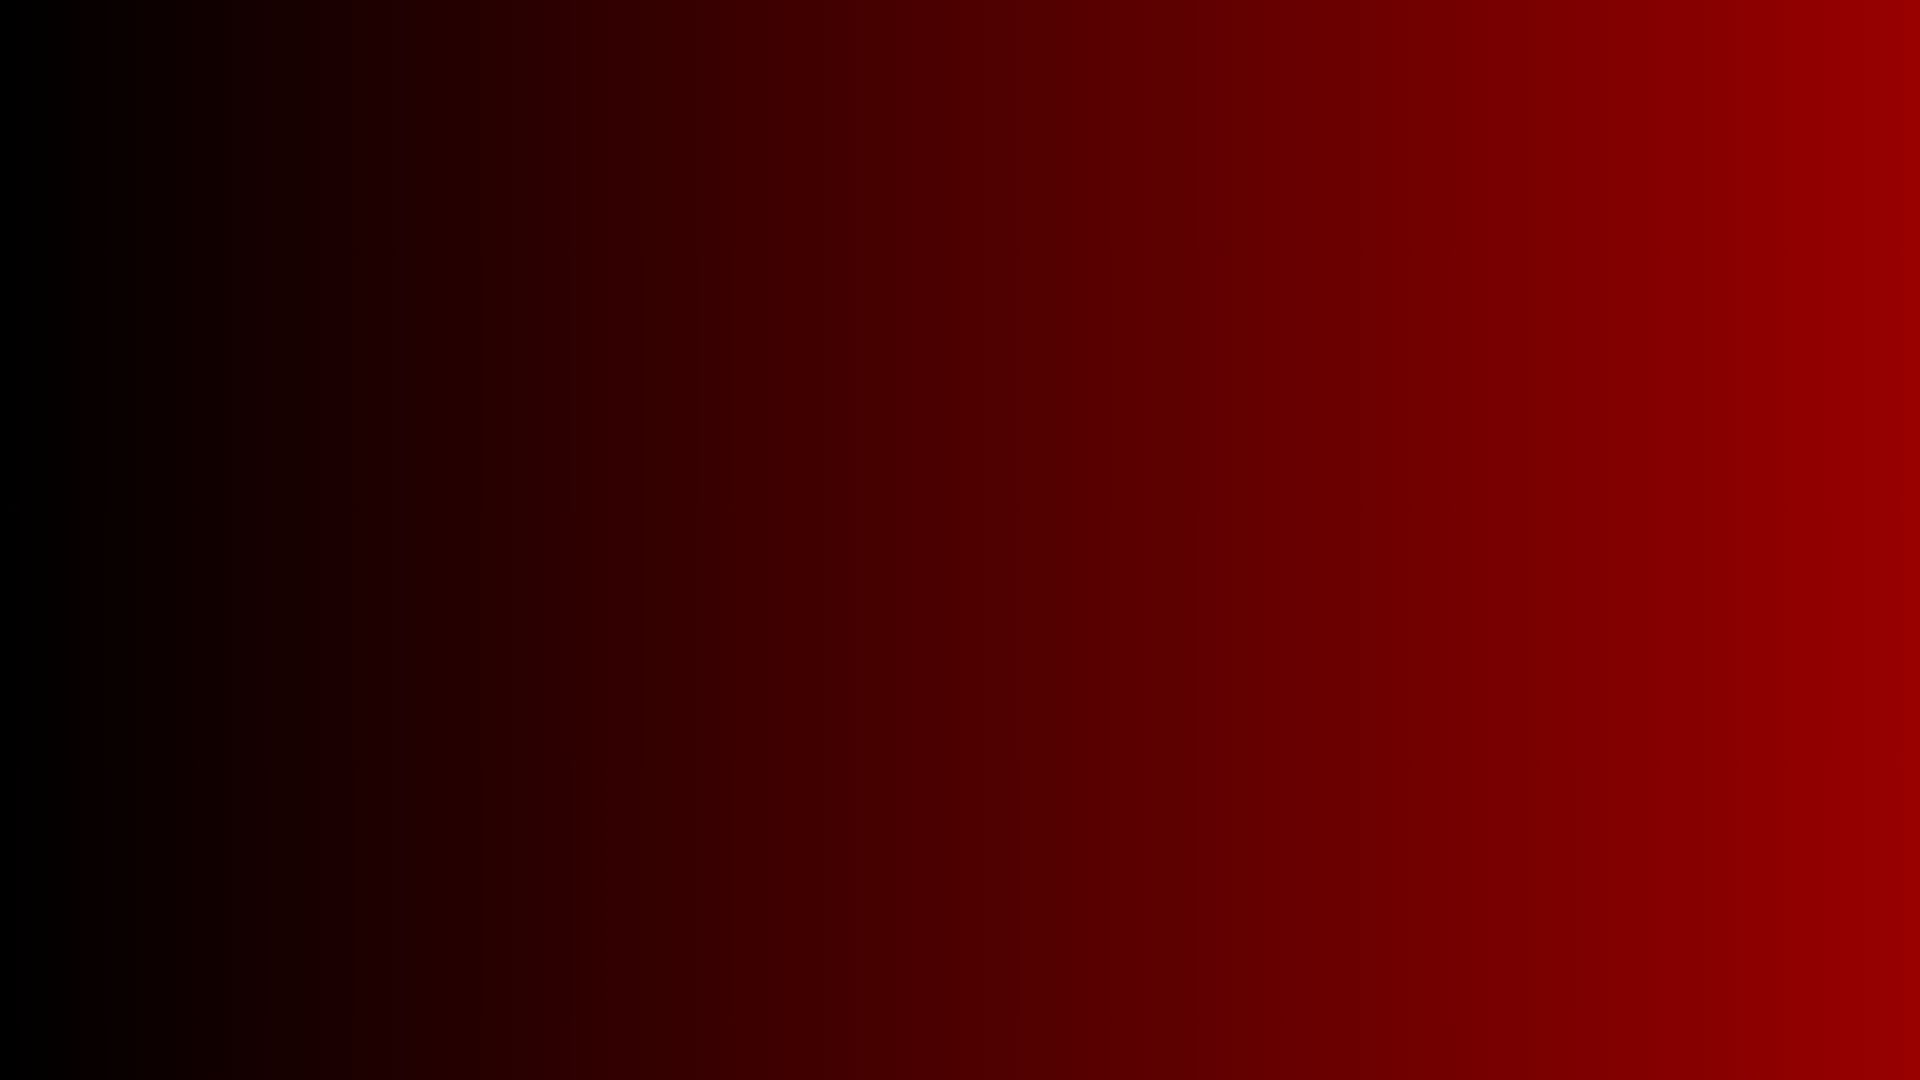
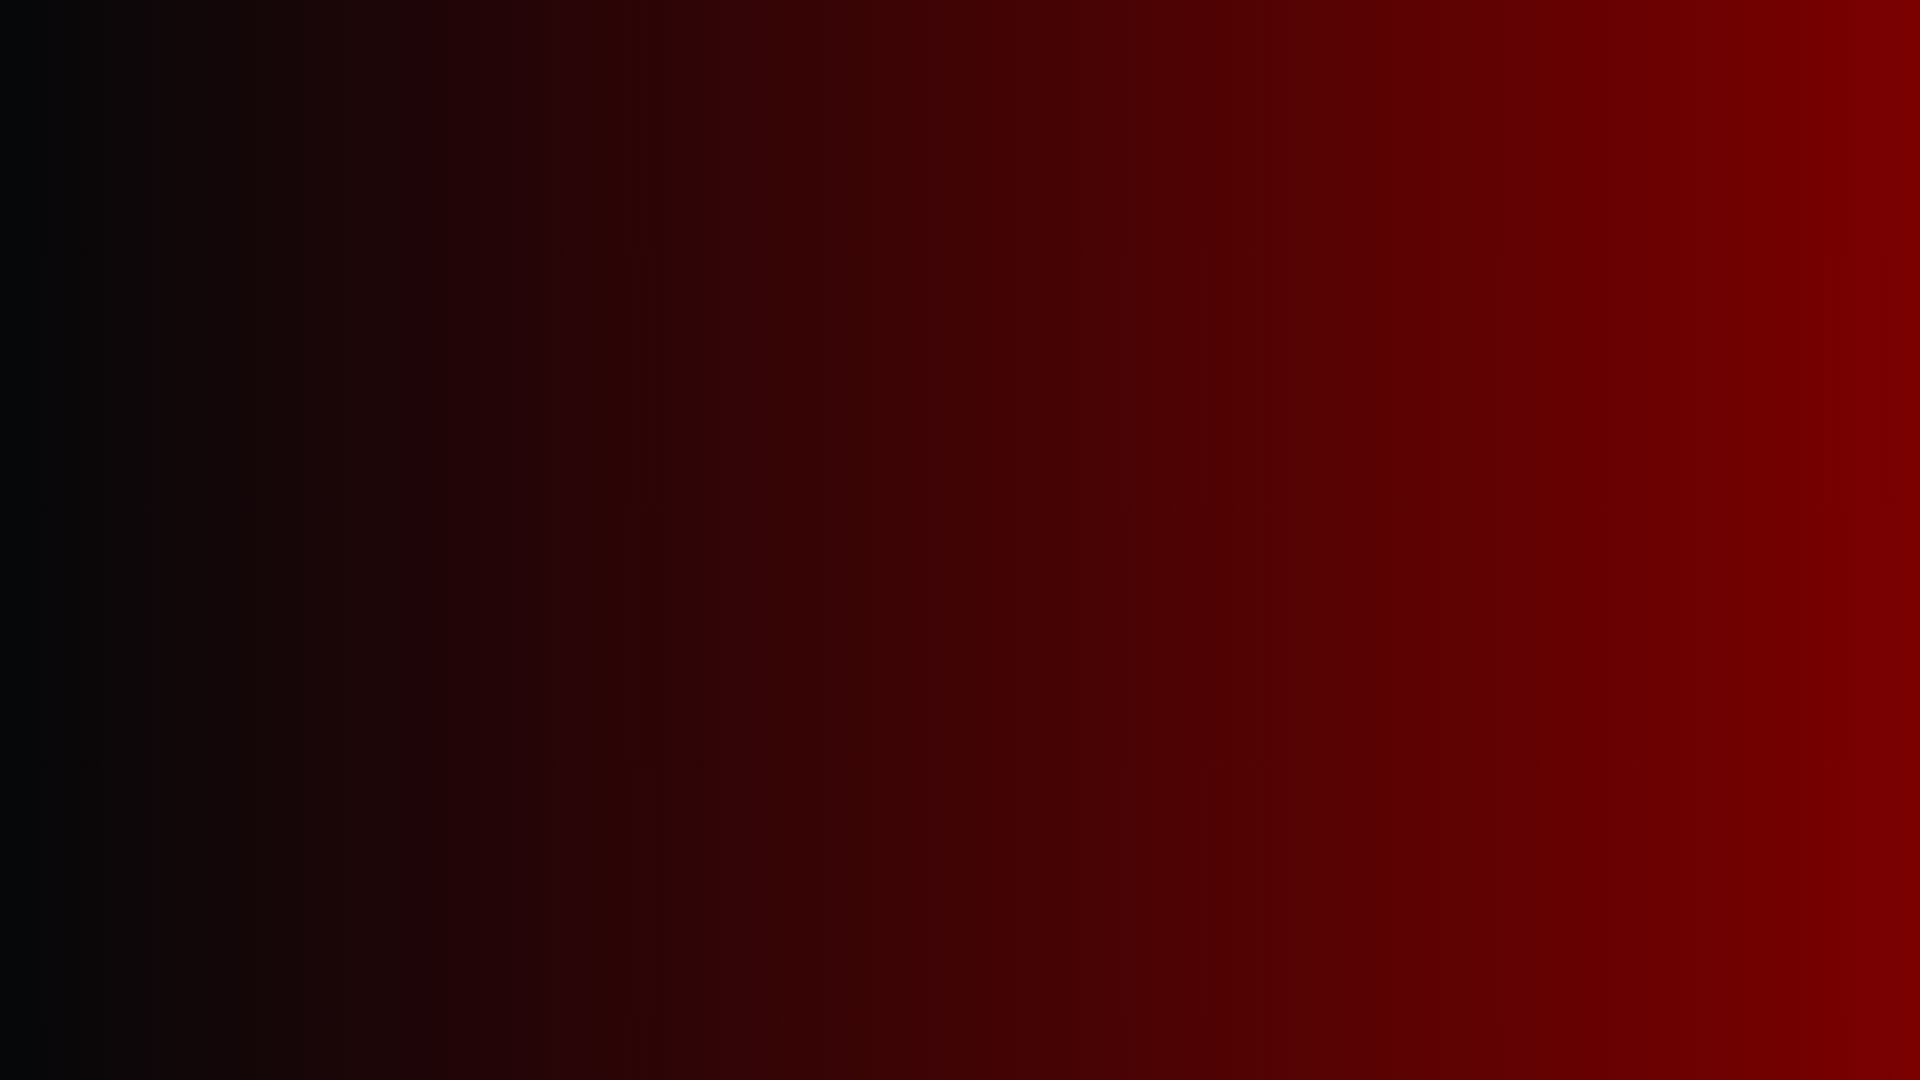
Sessão topo inicializada

Changed region(s): [[0.8125, 0.0, 1.0, 1.0]]

diff --git a/src/components/sessaoTopo.tsx b/src/components/sessaoTopo.tsx
@@ -1,0 +1,41 @@
+'use client'
+import Image from "next/image";
+import Treino from '@/Image/ImagemDeTreino.jpg'
+export function SessaoTopo() {
+    return (
+        <section className="bg-img-fundoTopo bg-center bg-cover bg-no-repeat">
+            <div className="flex justify-center mx-auto">
+                <div className="md:flex w-full md:justify-center items-center py-28 gap-32 max-w-screen-xl mx-auto">
+                    <div className="flex px-10 md:w-1/2 justify-center mx-auto">
+                        <div className="text-white">
+                            <h2 className="text-xl font-semibold">
+                                I am Bruno
+                            </h2>
+                            <h1 className="text-5xl md:text-6xl lg:text-7xl font-bold mt-2">
+                                Web Developer +
+                                UX Designer
+                            </h1>
+                            <h3 className="hidden md:flex mt-5 font-light">
+                                I break down complex user experinece problems to create integritiy focussed solutions
+                                that
+                                connect billions of people
+                            </h3>
+                        </div>
+                    </div>
+                    <div className="flex justify-center items-center md:w-1/2">
+                        <Image
+                            className="rounded-lg w-96 my-10 border-2 border-red-400 hover:border-primary cursor-pointer duration-500"
+                            src={Treino} alt="Treino"/>
+                    </div>
+                    <div className="md:hidden px-10">
+                        <h3 className="text-white mt-5 font-light">
+                            I break down complex user experinece problems to create integritiy focussed solutions
+                            that
+                            connect billions of people
+                        </h3>
+                    </div>
+                </div>
+            </div>
+        </section>
+    )
+}

diff --git a/src/components/header.tsx b/src/components/header.tsx
@@ -1,12 +1,13 @@
-import Image from "next/image";
-import Logo from '@/Image/TECHFIT-LOGO.png'
+'use client'
 import { ButtonPrimary } from "./ui/ButtonPrimary";
 import {ButtonMenu} from "@/components/ui/ButtonMenu";
+import {useState} from "react";
 export function Header(){
+    const [puxarMenu, setpuxarMenu] = useState(false);
     return(
-        <section className="bg-black">
+        <section className="bg-transparent fixed top-0 left-0 right-0">
             <div className="flex px-10 py-6 mx-auto justify-between gap-5 max-w-screen-xl items-center">
-                <div className="flex flex-col text-center text-primary">
+                <div className="flex flex-col text-center text-primary cursor-pointer">
                     {/*<Image className="w-32" src={Logo} alt="Logo"/>*/}
                     <h1 className="text-3xl font-raleway">TECHFIT</h1>
                 </div>

diff --git a/src/app/page.tsx b/src/app/page.tsx
@@ -1,10 +1,12 @@
-import { Header } from "@/components/header";
+import {Header} from "@/components/header";
 import Image from "next/image";
+import {SessaoTopo} from "@/components/sessaoTopo";
 
 export default function Home() {
-  return (
-    <section>
-      <Header/>
-    </section>
-  );
+    return (
+        <section>
+            <Header/>
+            <SessaoTopo/>
+        </section>
+    );
 }

diff --git a/tailwind.config.ts b/tailwind.config.ts
@@ -12,6 +12,7 @@ const config: Config = {
         "gradient-radial": "radial-gradient(var(--tw-gradient-stops))",
         "gradient-conic":
           "conic-gradient(from 180deg at 50% 50%, var(--tw-gradient-stops))",
+        'img-fundoTopo': "url(../Image/FundoTopo.jpg)"
       },
       colors: {
         'primary': '#FF0000',
